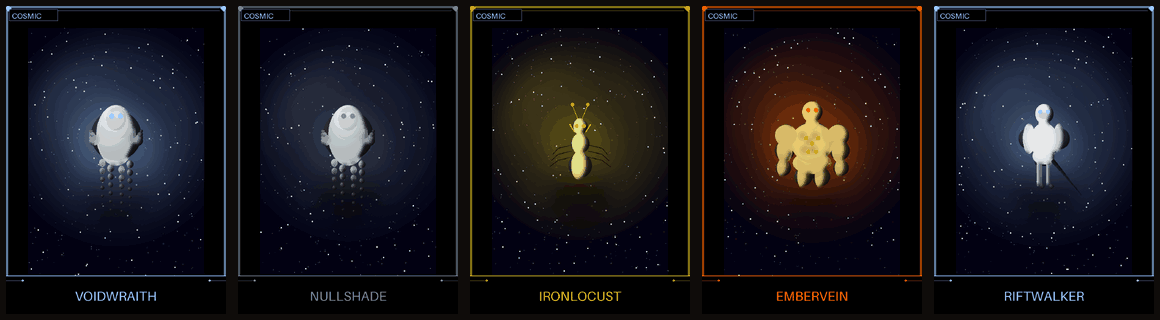
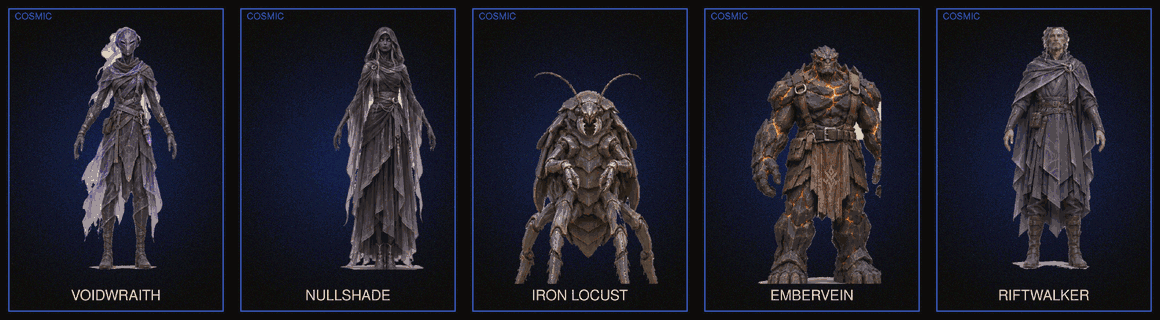
feat(art): realistic race cards from the concept sheets + README sheets (#286)
* feat(art): realistic race cards cut from the concept sheets (35 JPEGs, 11 MB) + generator

tools/cards/gen_cards.sh keys the front-view figure out of each Codex concept sheet onto a
dark group-tinted card with tag + name. Replaces the stylised PNG cards; carousel and
gen_sheets.py now read .jpg. Known flaws: a few bone-white or ghost-robe races have pitting
(bonedrifter, ashcrown), a stray caption on ashenborn/coreborn.

Claude-Session: https://claude.ai/code/session_018QCtj7Nqo5D5t9GgNxWbbW

* docs(readme): race sheets regenerated from the realistic cards

Claude-Session: https://claude.ai/code/session_018QCtj7Nqo5D5t9GgNxWbbW

---------

diff --git a/docs/assets/src/gen_sheets.py b/docs/assets/src/gen_sheets.py
@@ -23,7 +23,7 @@ def main() -> None:
     for group, races in groups.items():
         files = []
         for r in races:
-            f = CARDS / f"{r}.png"
+            f = CARDS / f"{r}.jpg"
             if not f.exists():
                 raise SystemExit(f"missing card {f}")
             files.append(str(f))
